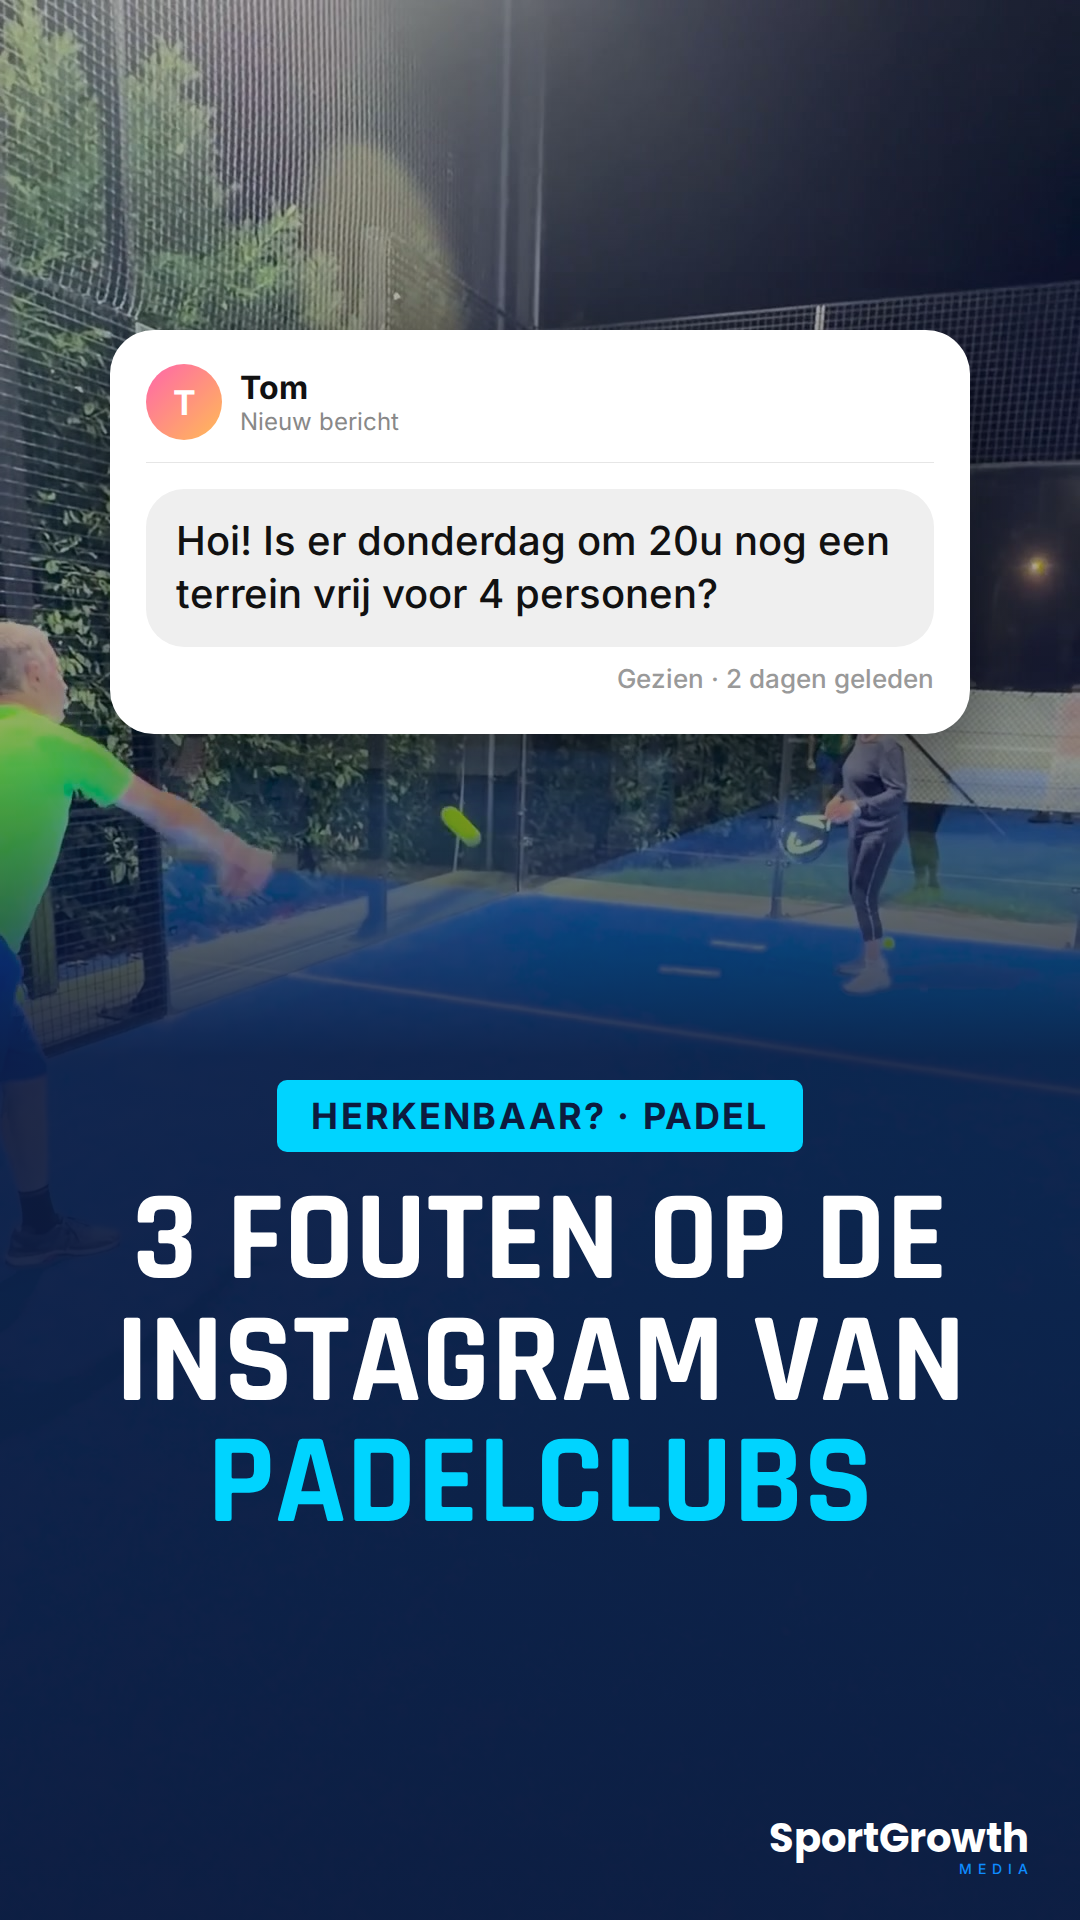
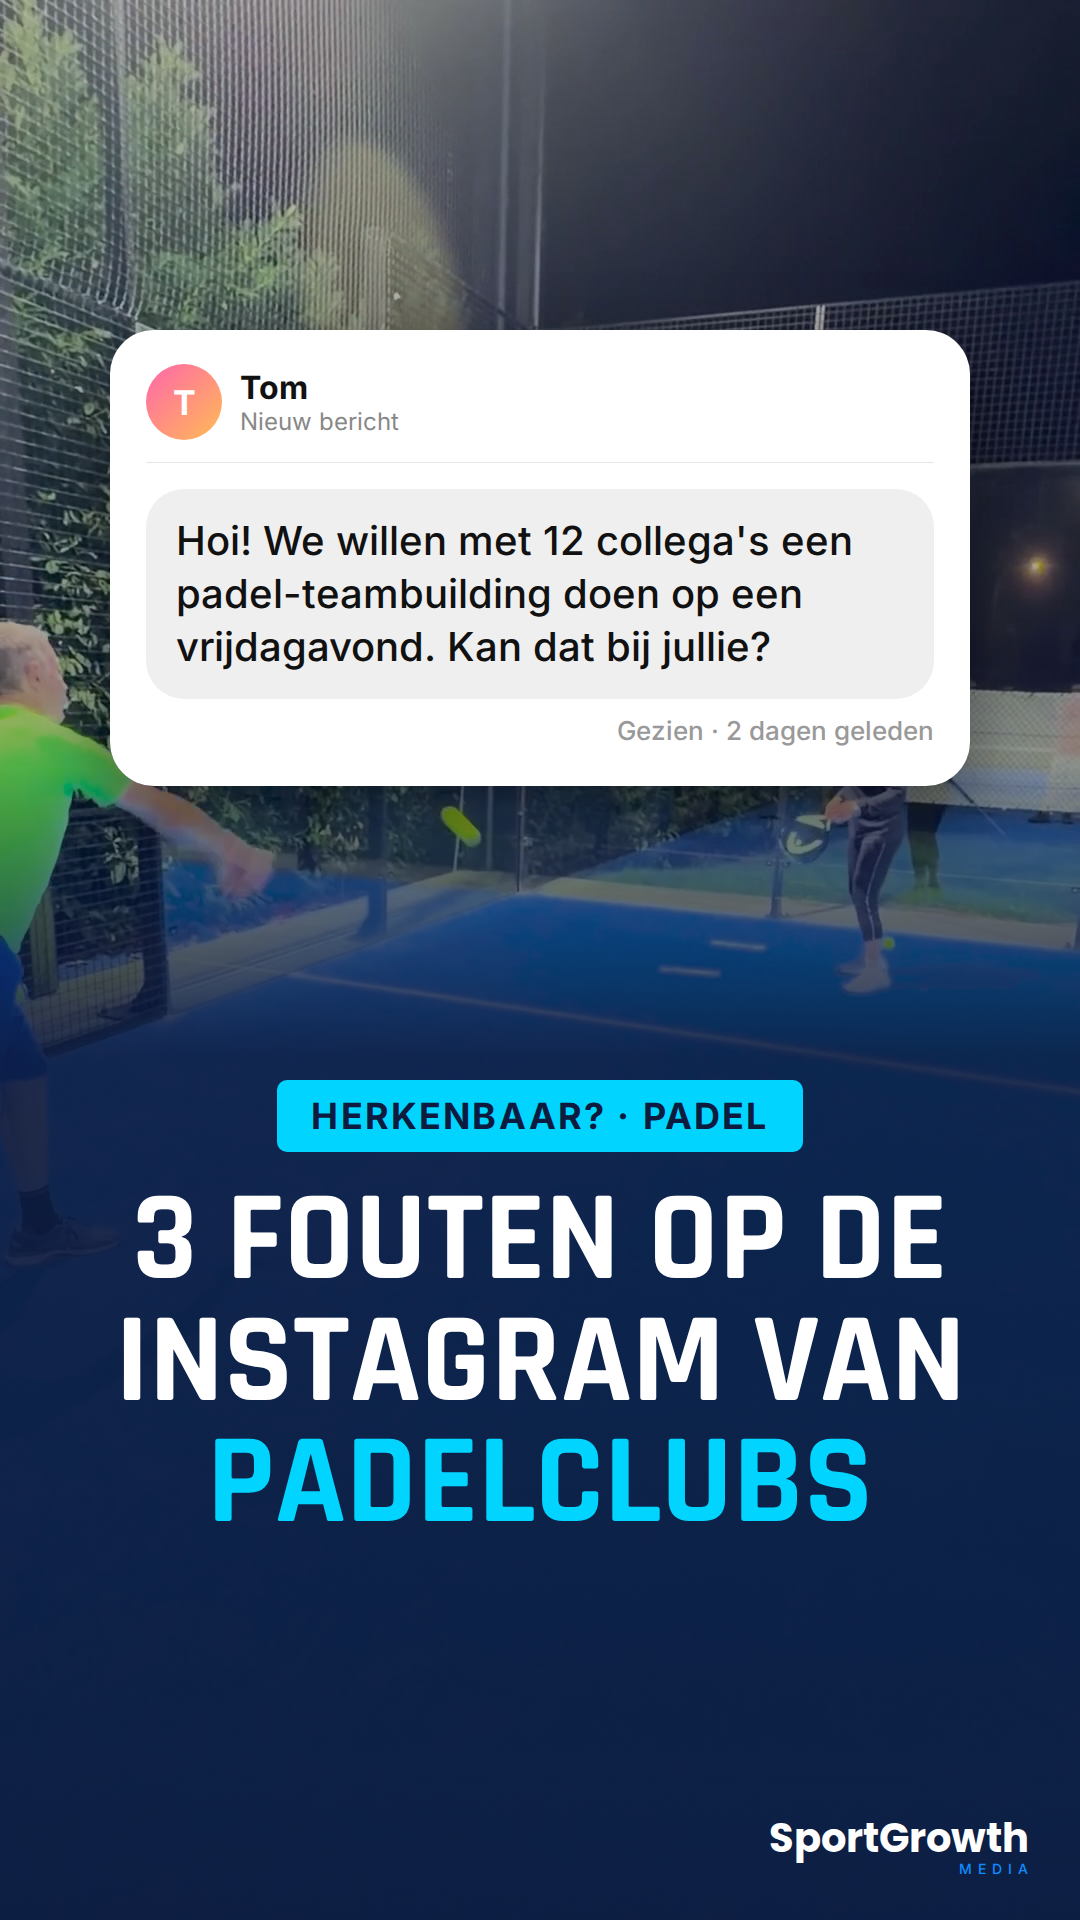
Reel 6: DM over teambuilding, nieuw beginbeeld, VO-tijden
Claude-Session: https://claude.ai/code/session_01QkSWZzWLTduRQtPp2zathG

Changed region(s): [[0.0917, 0.25, 0.9167, 0.4375]]

diff --git a/instagram/reels/reel6-montage.md b/instagram/reels/reel6-montage.md
@@ -22,6 +22,13 @@ Audio: zachte ruisfilter tegen de bladblazer (`highpass=f=80,afftdn=nr=8:nf=-30:
 | 0:02-0:05,9 | Jij (2357) | "Dit zijn drie fouten op de Instagram van bijna elke padelclub." | ondertitels |
 | 0:05,9-0:10,9 | Twee speelsters + smash in de zon | **Voice-over 1:** "Eén: je post alleen vrije uren en uurroosters. Een uurrooster toont niet hoe leuk het is om bij jullie te spelen." | 1. Alleen vrije uren posten |
 | 0:10,9-0:17,2 | Jij (2362) → vol terras | "Twee: je toont nooit wat er na de match gebeurt…" | 2. Geen sfeer na de match |
-| 0:17,2-0:22,2 | Gsm: DM van Tom, 2 dagen onbeantwoord → "we hebben al ergens anders geboekt" | **Voice-over 2:** "Drie: je antwoordt pas na twee dagen op een DM. Dan heeft die speler al ergens anders geboekt." | 3. Trage DM's · 📤 Stuur dit naar iemand van je club |
+| 0:17,2-0:22,2 | Gsm: DM van Tom, 2 dagen onbeantwoord → "we hebben al ergens anders geboekt" | **Voice-over 2:** "Drie: je antwoordt pas na twee dagen op een DM. Dan is die teambuilding al bij een andere club geboekt." | 3. Trage DM's · 📤 Stuur dit naar iemand van je club |
 | 0:22,2-0:27,3 | Jij (2365) | "Toon hoe gezellig het bij jullie is, en antwoord snel…" | Sfeer tonen · snel antwoorden |
 | 0:27,3-0:35,4 | Afsluiter | vaste afsluiter | Stuur een DM 📩 |
+
+
+## Bijgestuurd do 22/10
+- Beginbeeld: split "ZO NIET" (saaie uurrooster-post) / titel / "ZO WEL" (volle padelhal), 2,5 s.
+- Fout 1: uurrooster-post, daarna "Toon liever dit" met de volle hal.
+- Fout 3: DM gaat over een teambuilding voor 12 collega's (vrije terreinen ziet men al in het boekingssysteem).
+- Voice-overs: 0:06,4 en 0:17,7. VO 2: "Drie: je antwoordt pas na twee dagen op een DM. Dan is die teambuilding al bij een andere club geboekt."
